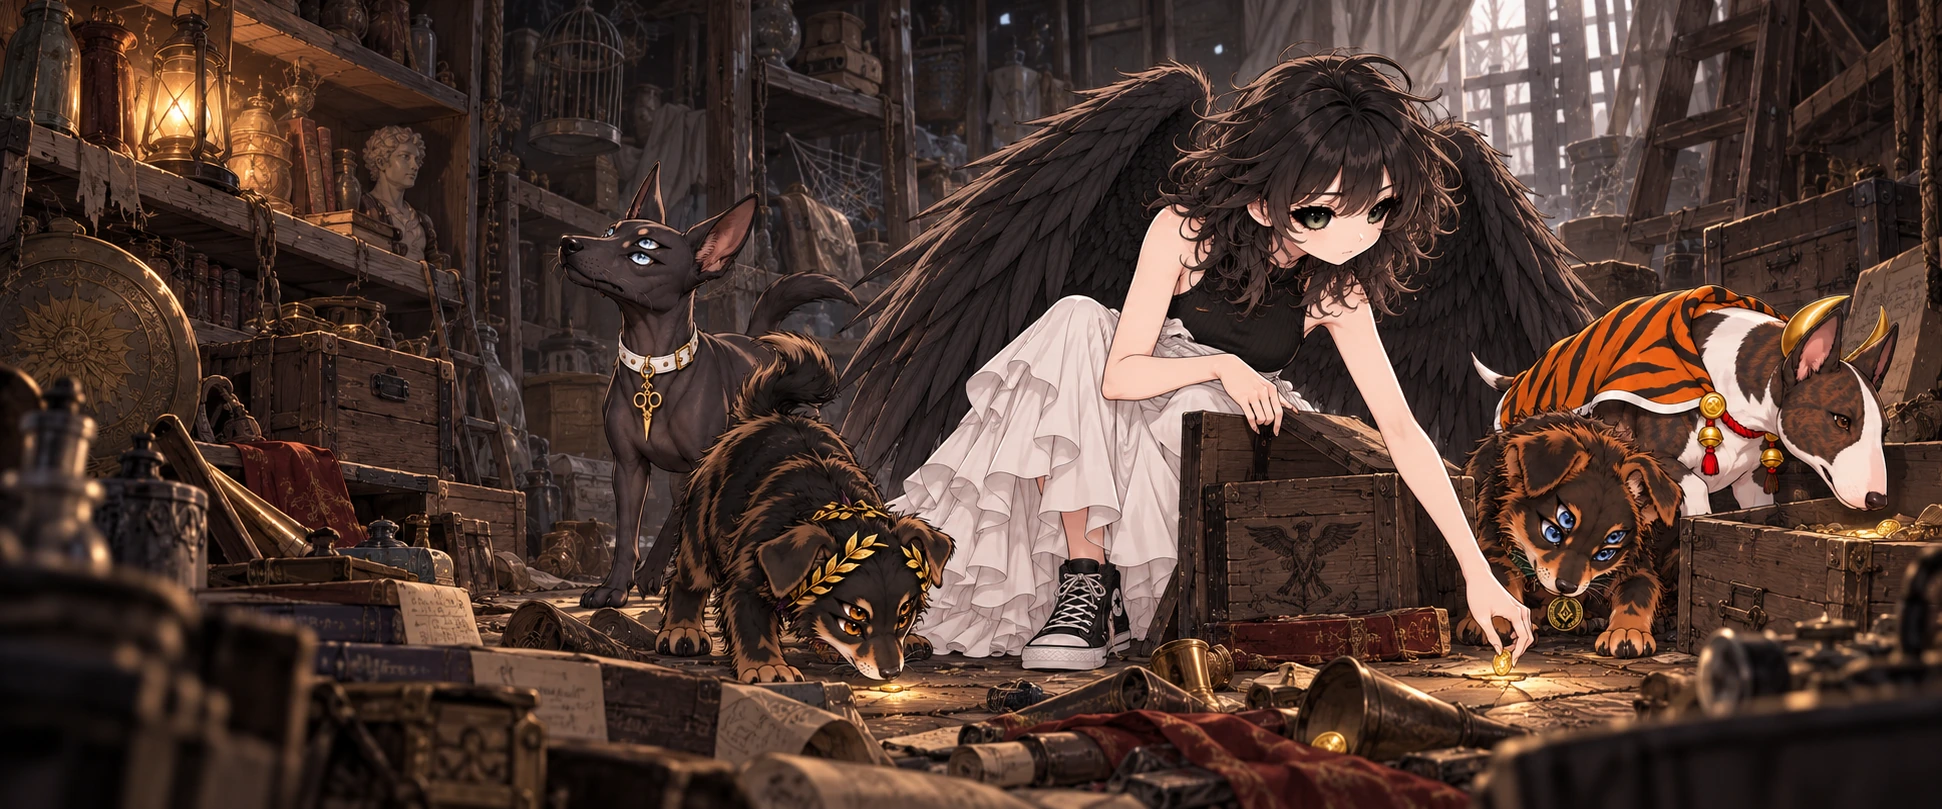
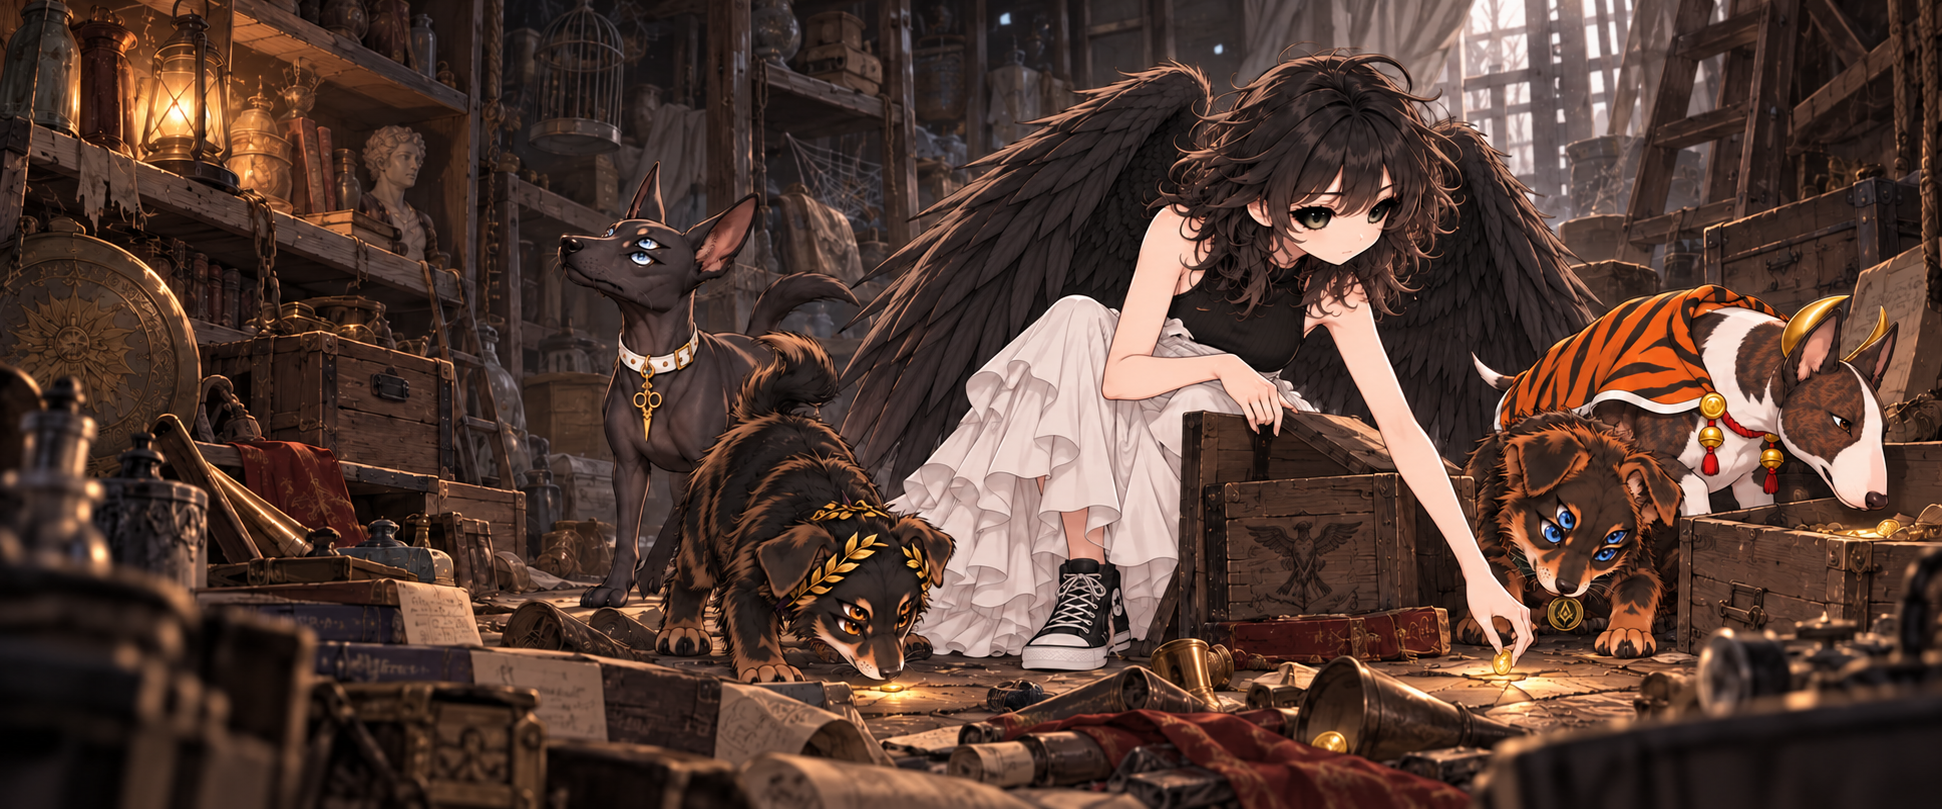
feat: atualizar artes aprovadas de Posts e Óbolos

diff --git a/src/app/pages/posts/posts.html b/src/app/pages/posts/posts.html
@@ -7,7 +7,7 @@
       class="posts-header__image sanaka-atmosphere-hero__image"
       src="/images/posts/posts-atmosphere-desktop.webp"
       width="1942"
-      height="809"
+      height="810"
       fetchpriority="high"
       decoding="async"
       [alt]="'posts.header.imageAlt' | transloco"

diff --git a/docs/matrix/manifesto-de-artes.md b/docs/matrix/manifesto-de-artes.md
@@ -61,6 +61,12 @@ A arte aprovada mostra Mors e seus companheiros procurando moedas e relíquias e
 sótão. Respeitar as asas negras, cabelo e roupa da referência **Mors.png** e, sobretudo,
 **esclera preta**, não branca.
 
+Em 31/10/2026, a autora aprovou a versão com o olho de Nandinī revisado a partir de
+**Nandini-de-lado.png**. O asset conserva as dimensões de 1942 × 809 px e usa WebP
+sem perda, com igualdade de todos os pixels RGBA verificada em relação ao PNG
+aprovado. Essa versão substitui a conversão de qualidade 92 registrada em 15/10.
+O Header, os degradês e o recorte responsivo permanecem os mesmos.
+
 Não inventar moedas canônicas ou reversos. Se houver moedas reconhecíveis na arte,
 usar referências aprovadas. Saṃvit, Mors e Ākāśa compartilham o reverso canônico.
 
